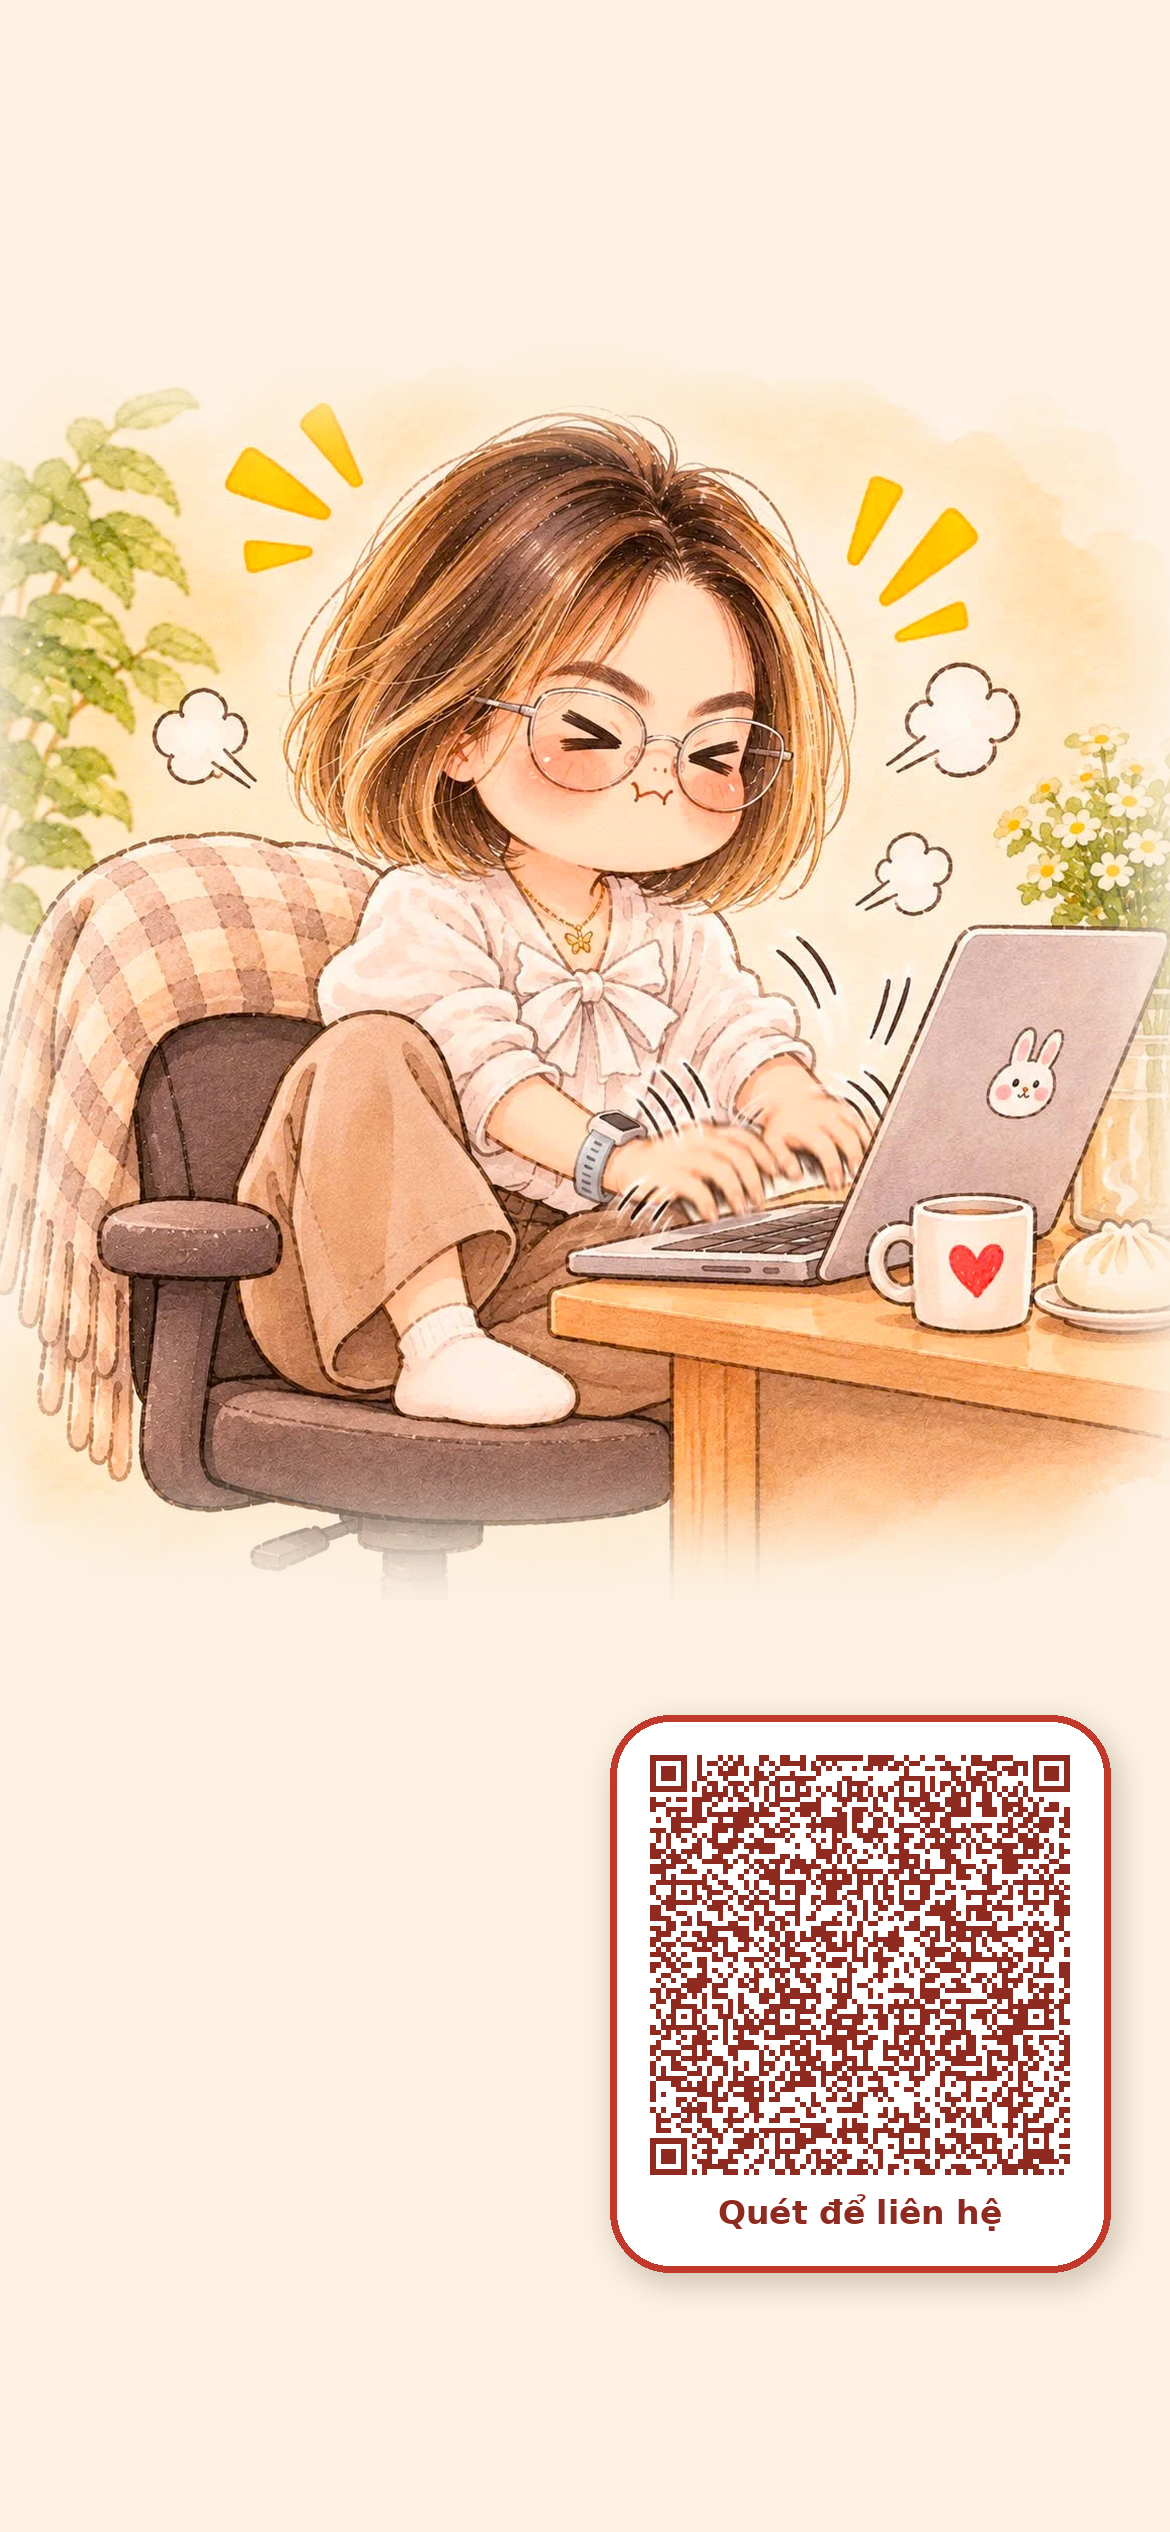
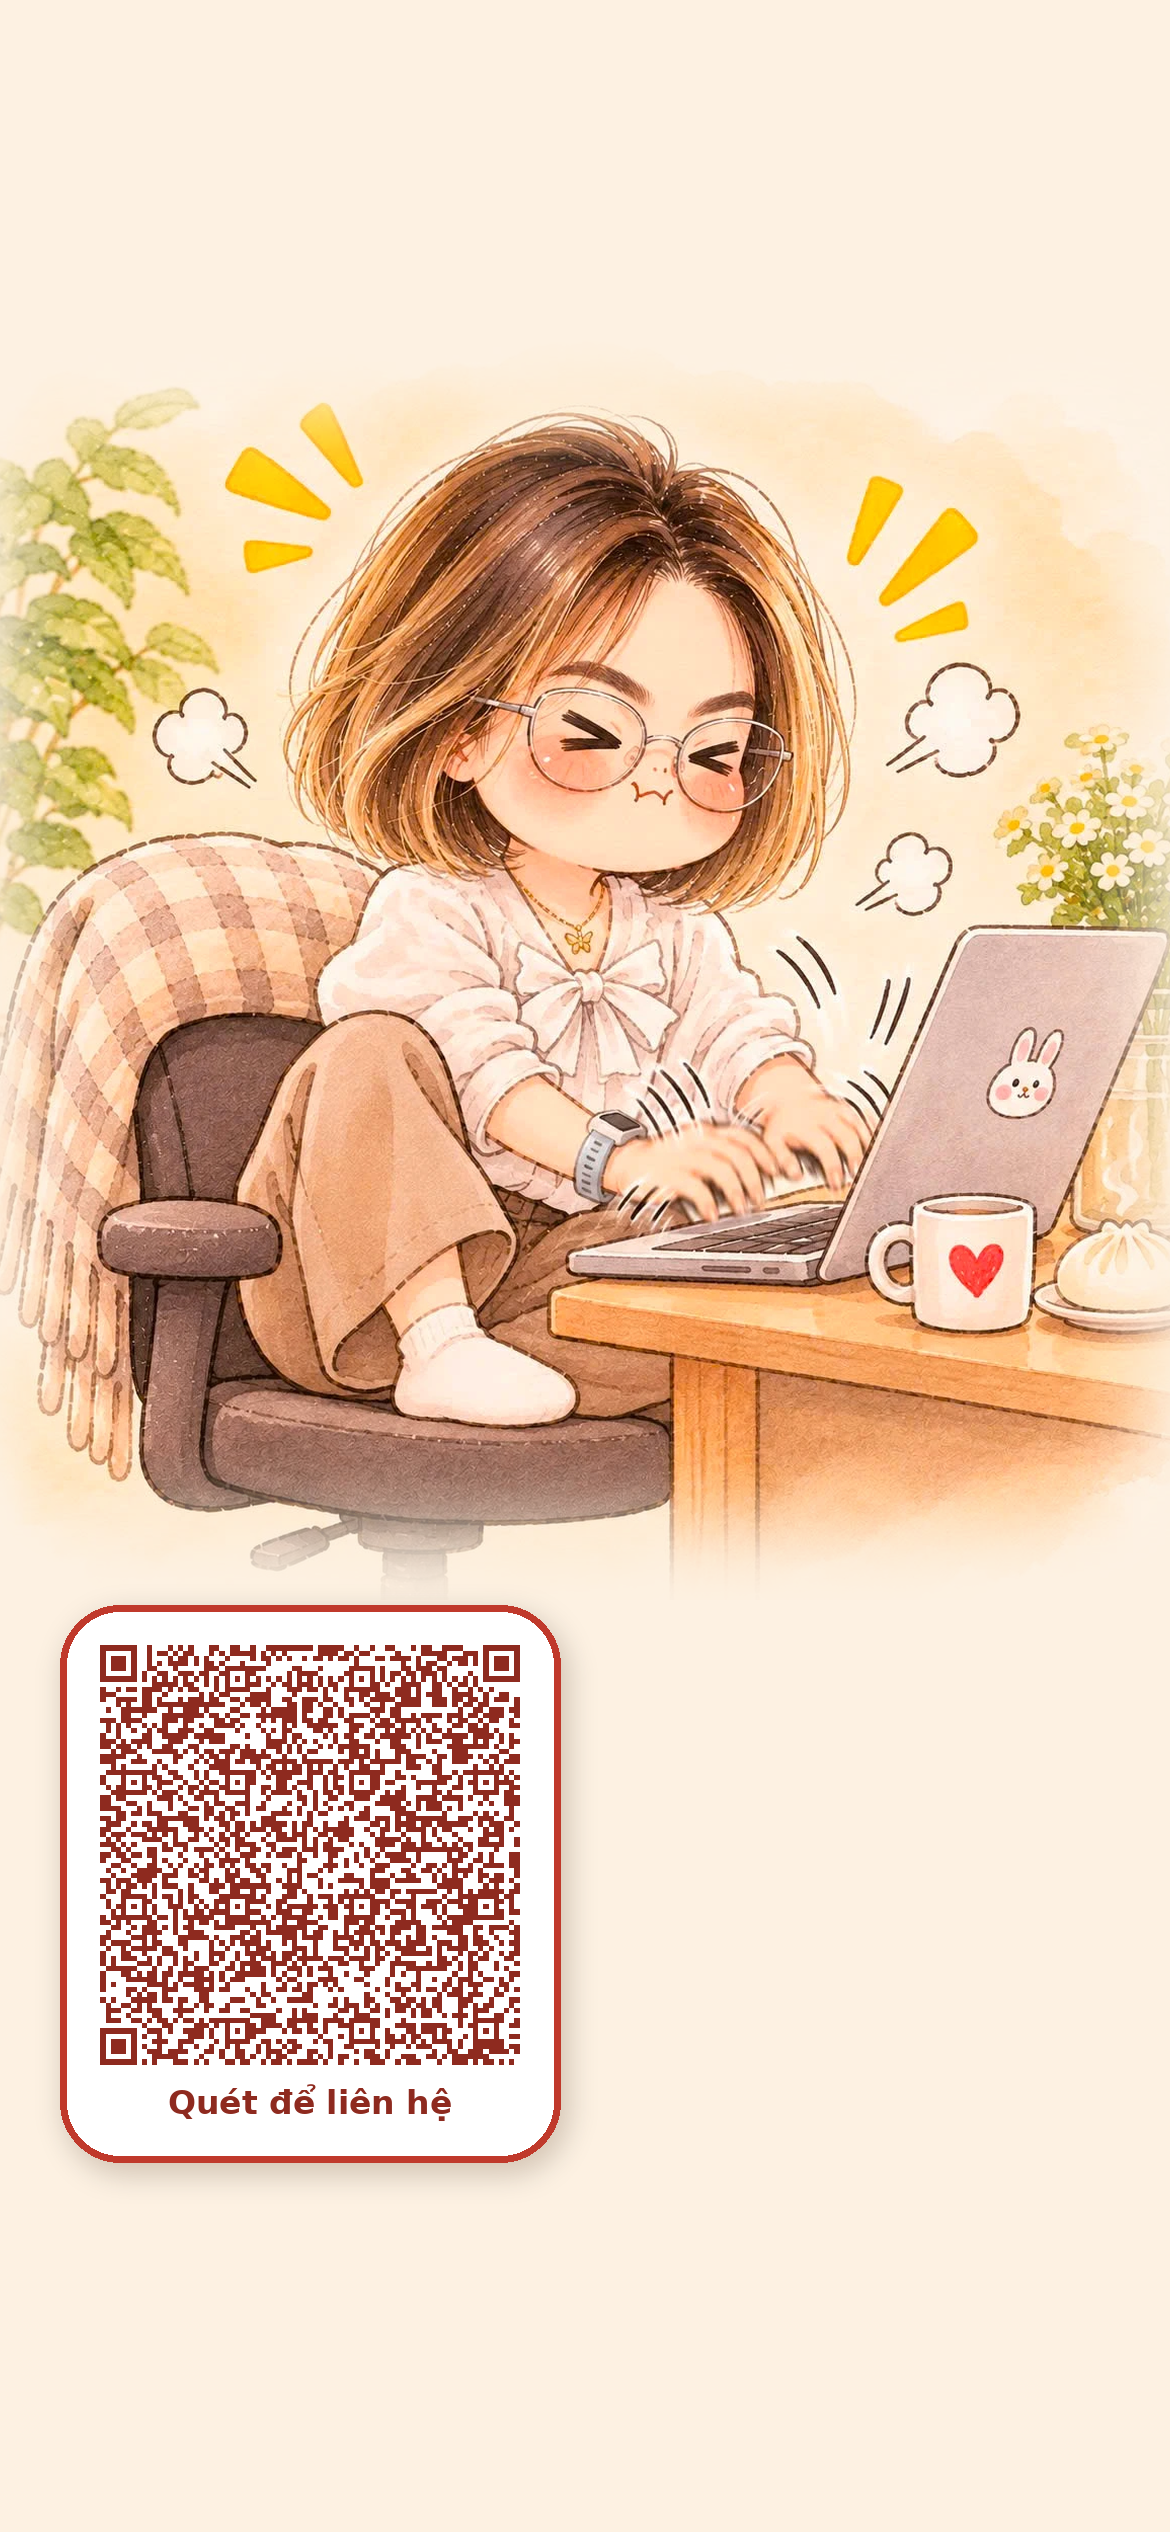
Dời mã QR trên hình nền lên cao và sang bên trái
Claude-Session: https://claude.ai/code/session_015fjm6foX8zWx1prmuFfGVJ

Changed region(s): [[0.0308, 0.624, 0.4923, 0.8736], [0.5231, 0.6552, 0.9538, 0.9048]]

diff --git a/qr/tao_hinh_nen_anh.py b/qr/tao_hinh_nen_anh.py
@@ -30,19 +30,19 @@ def place(bg, size, xy, f):
     a = art.resize(size, Image.LANCZOS)
     bg.paste(a, xy, feather(size, f))
 
-# Máy tính 2560x1440: ảnh ở giữa-trái, QR góc phải dưới trên nền kem
+# Máy tính 2560x1440: ảnh ở giữa-trái, QR bên trái trên nền kem
 W, H = 2560, 1440
 img = Image.new("RGB", (W, H), CREAM)
-place(img, (1440, 1440), (380, 0), 90)
+place(img, (1440, 1440), (W - 1440 - 380, 0), 90)
 qs = 460; cw = qs + 2*int(qs*0.07); ch = qs + 2*int(qs*0.07) + int(qs*0.13)
-qr_card(img, W - cw - 70, H - ch - 120, qs)
+qr_card(img, 70, H - ch - 220, qs)
 img.save(os.path.join(HERE, "hinh-nen-anh-may-tinh.png"))
 
-# Điện thoại 1170x2532: ảnh ở giữa, QR góc phải dưới
+# Điện thoại 1170x2532: ảnh ở giữa, QR bên trái
 W, H = 1170, 2532
 img = Image.new("RGB", (W, H), CREAM)
 place(img, (1270, 1270), (-50, 330), 80)
 qs = 440; cw = qs + 2*int(qs*0.07); ch = qs + 2*int(qs*0.07) + int(qs*0.13)
-qr_card(img, W - cw - 60, H - ch - 260, qs)
+qr_card(img, 60, H - ch - 370, qs)
 img.save(os.path.join(HERE, "hinh-nen-anh-dien-thoai.png"))
 print("xong")
